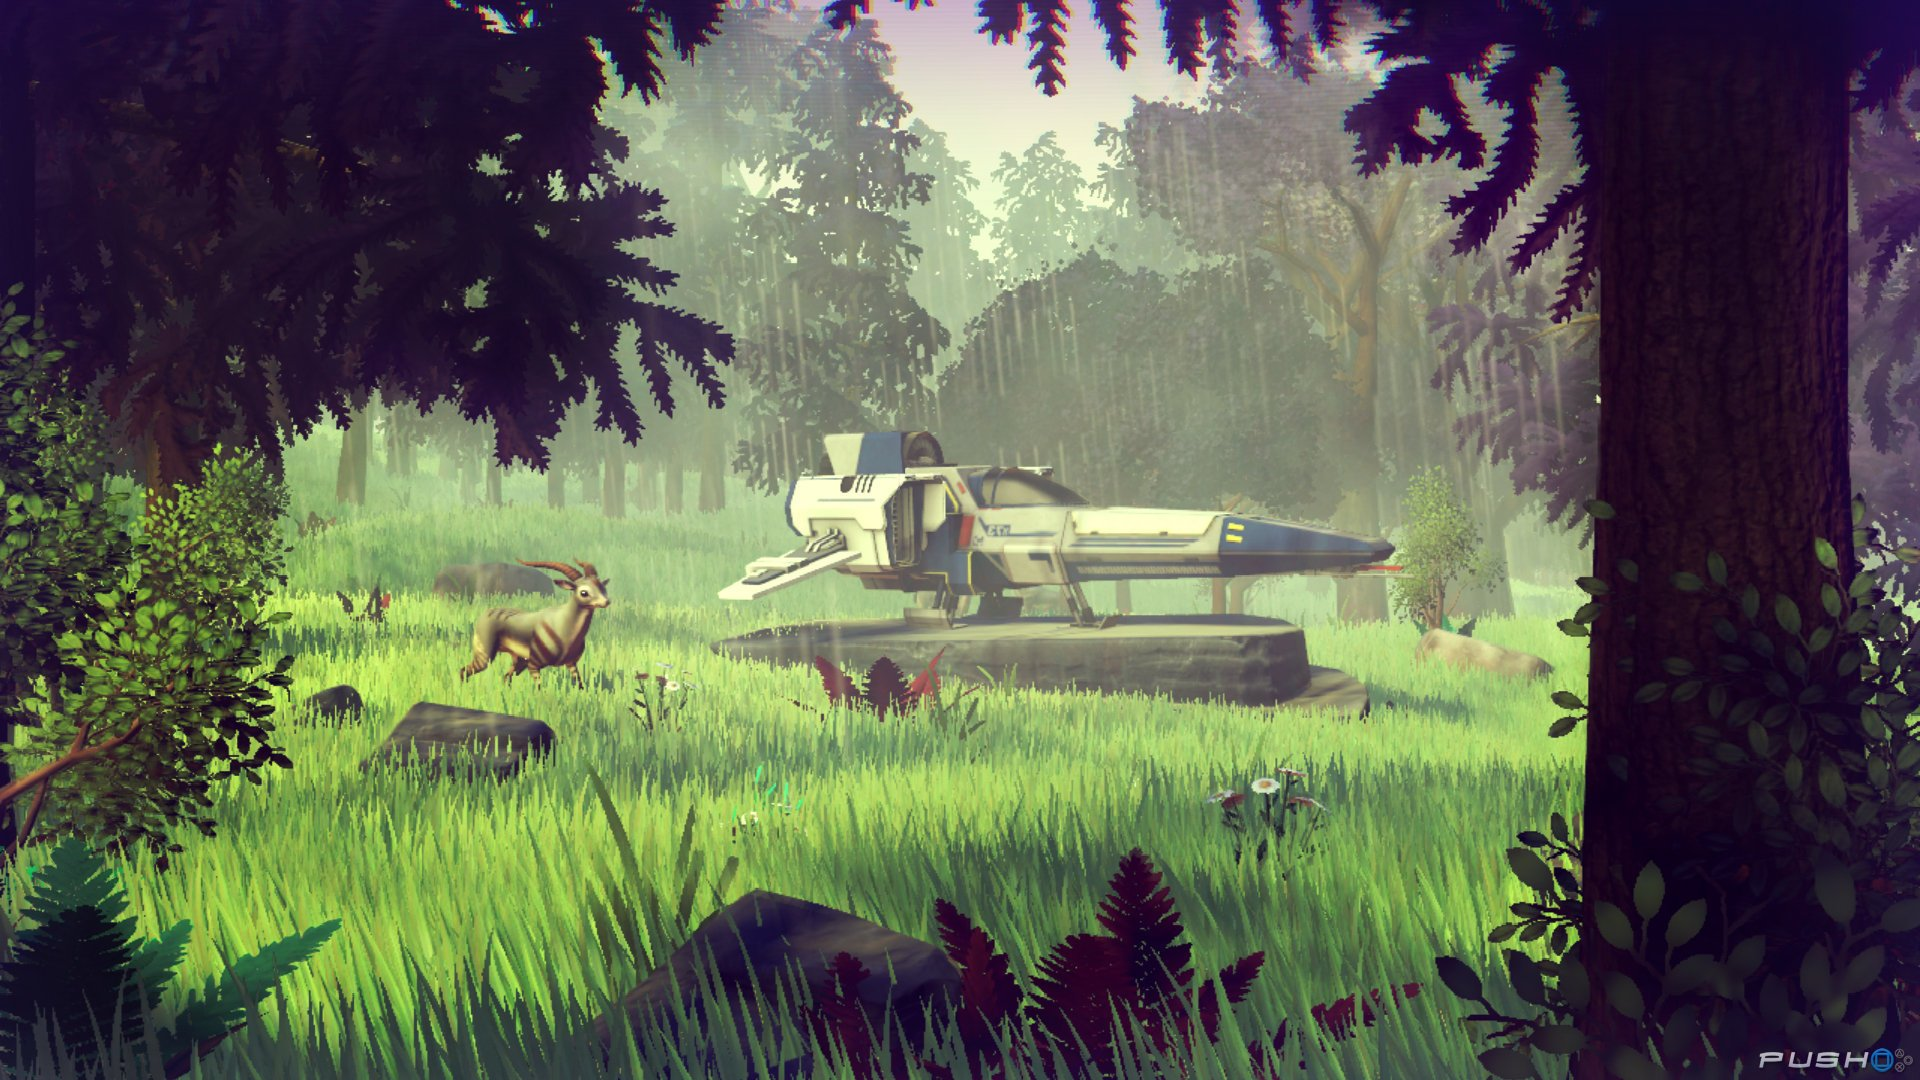
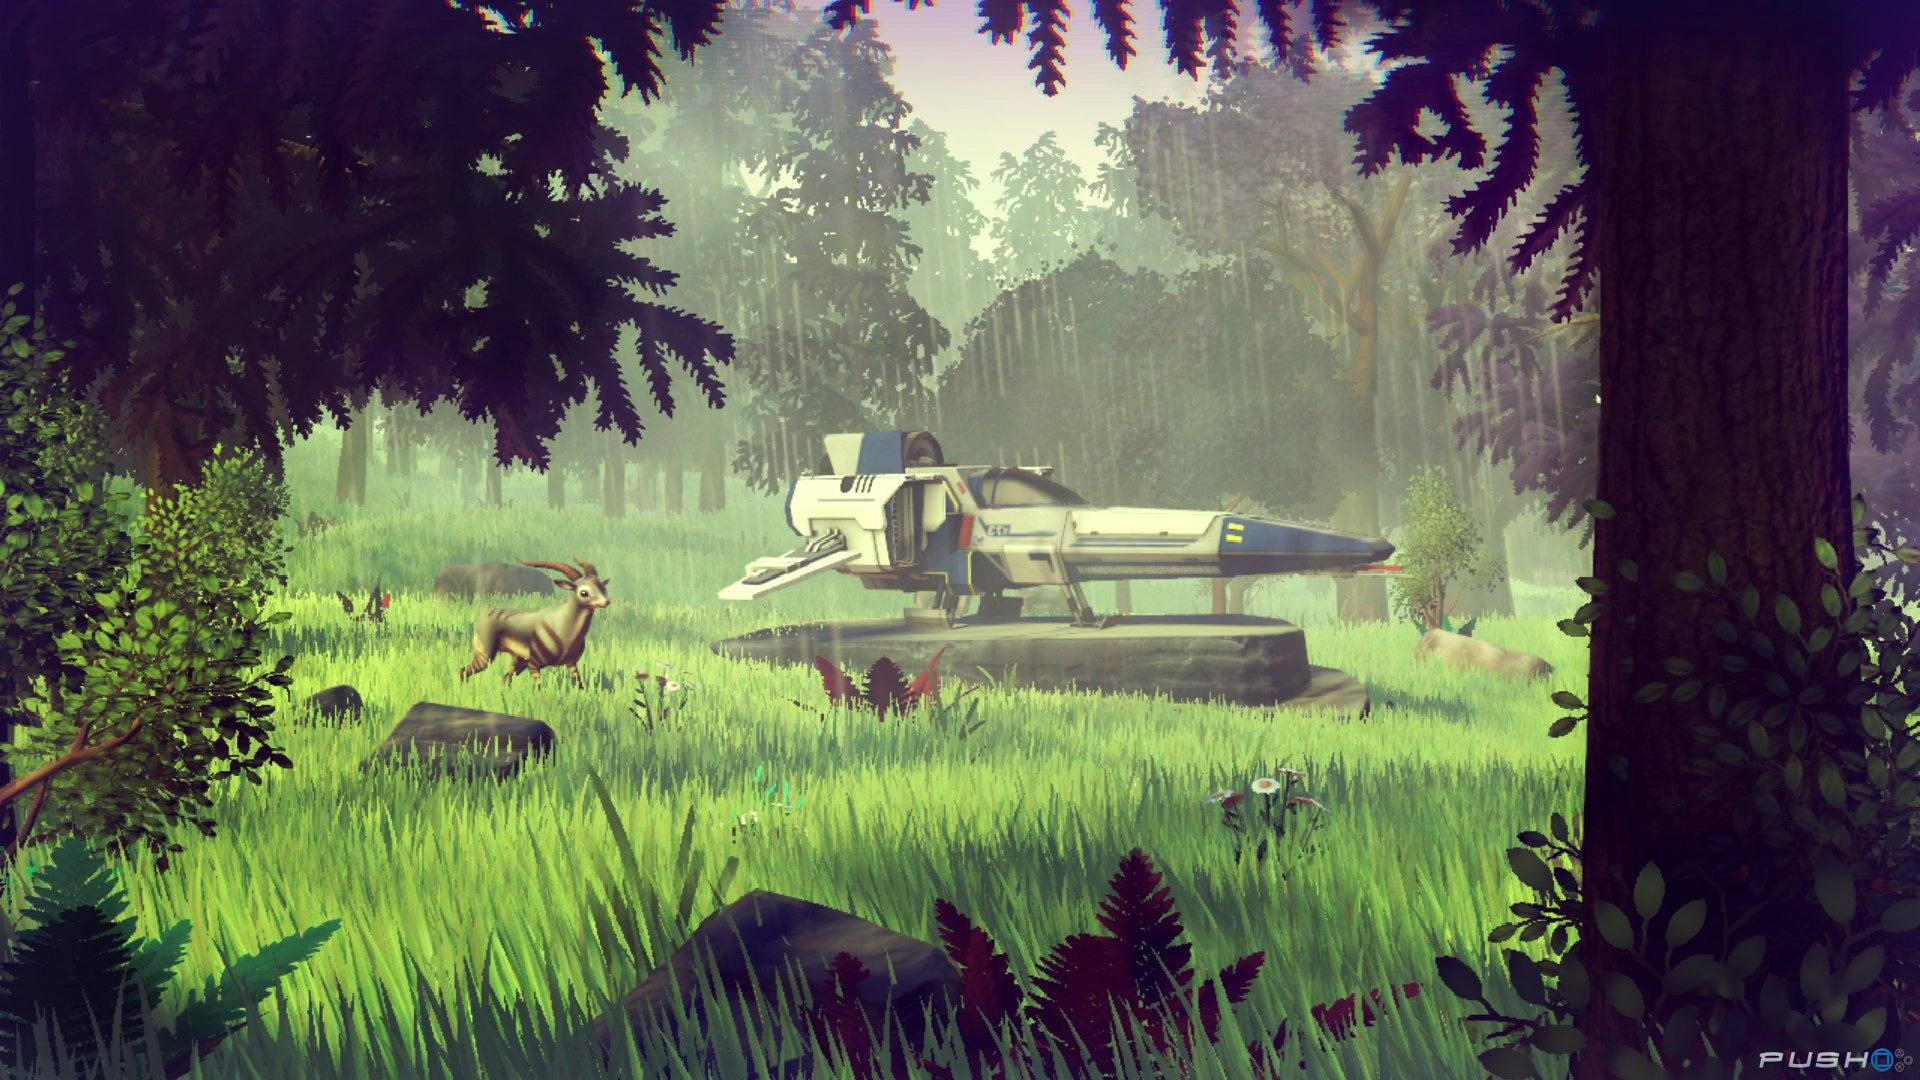
converted some images to jpg to reduce page size

Changed region(s): [[0.25, 0.0, 0.2812, 0.0306]]

diff --git a/_sass/_custom.scss b/_sass/_custom.scss
@@ -102,7 +102,7 @@ section {
 }
 
 .fractal-mathematics {
-    background-image: url("/images/fractal-mathematics.png");
+    background-image: url("/images/fractal-mathematics.jpg");
     background-size: 100%;
 }
 
